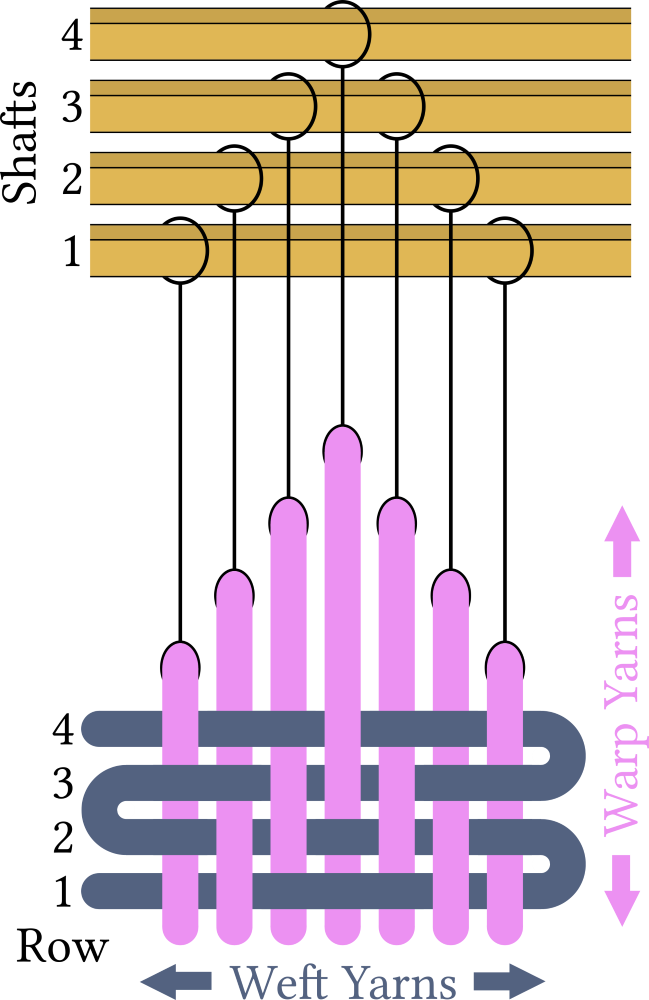
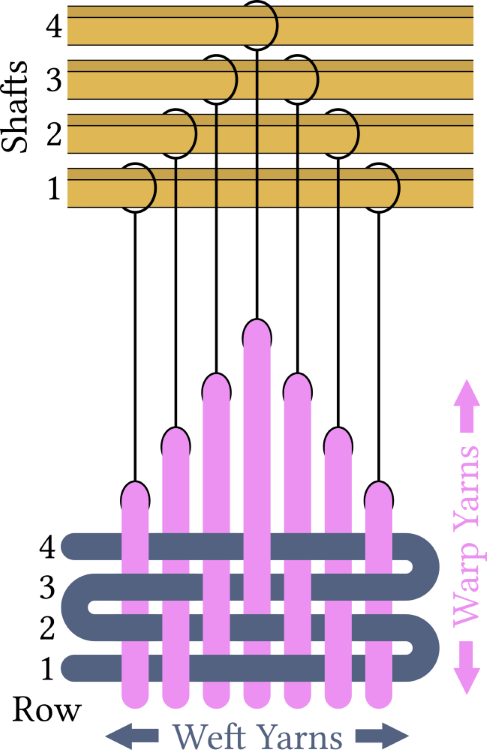
Final Grammer & Text Updates

diff --git a/weaveFrame1.py b/weaveFrame1.py
@@ -12,9 +12,14 @@ from constants_info import *
 from ScrollableFrame import ScrollableFrame
 from serialCom import move_frame, init_frames, config_frames
 
-instr_message = 'Welcome! Change the number of shafts and pedals for your shaft loom setup. \
-Then change the matrices by clicking on the boxes. Once your pattern is complete, \
-weave using the \'Next Row\' and \'Previous Row\' buttons.'
+instr_message   = "Welcome! To start, change the number of shafts and pedals for your shaft loom setup."
+instr_message_2 = "Next, change the threading matrix to the desired configuration, pressing the"
+instr_message_3 = "\'Transmit New Threading\' button when complete. Finally, click around the other matracies"
+instr_message_4 = "until your desired pattern is complete! Weave using the \'Next Row\' and \'Previous Row\' buttons."
+instr_message_5 = "To start exploring the mathematics behind weaving, press the \'Enter Math Mode\' button!"
+instr_message_6 = "If you are struggling with any aspect of the weaving process, please consult the Side Navigation Menu to"
+instr_message_7 = "explore common weaving terminology, a weaving draft legend, or review linear algebra concepts!"
+instr_message_8 = "Additonally, the Side Navigation Menu has simple patterns and culturally significant woven structures to easily follow."
  
 #TODO: Intential in design decisions: verbal, mathametical, and visual 
 class WeaveFrame1(tk.Frame):
@@ -42,7 +47,7 @@ class WeaveFrame1(tk.Frame):
         button_weave      = tk.Button(self, text="Next Row", command=lambda: self.weave_row(True))
         button_weave_back = tk.Button(self, text="Previous Row", command=lambda: self.weave_row(False))
         side_nav_button   = tk.Button(self, text="Toggle Side Menu", command=lambda: toggle_side_nav(self))
-        button_sendConfig = tk.Button(self, text="Transmit Frame Config", command=lambda: config_frames(self.threading))
+        button_sendConfig = tk.Button(self, text="Transmit New Threading", command=lambda: config_frames(self.threading))
         math_mode_button  = tk.Button(self, text="Enter Math Mode", command=lambda: [controller.show_frame("MathMode_WelcomePage")]) 
 
         #Adding Side Navigation Panel
@@ -106,8 +111,23 @@ class WeaveFrame1(tk.Frame):
         self.console_frame.pack_propagate(False)
         self.console_text      = tk.Listbox(self.console_frame, height=console_height,
                                          width=dynamic_x+140, selectmode=tk.SINGLE,  font='Terminal 11')
+        self.console_text.yview(True)
         self.console_text.insert(tk.END, instr_message)
-        self.console_text.itemconfig(self.console_text.size()-1,  bg='light green')
+        self.console_text.insert(tk.END, instr_message_2)
+        self.console_text.insert(tk.END, instr_message_3)
+        self.console_text.insert(tk.END, instr_message_4)
+        self.console_text.insert(tk.END, instr_message_5)
+        self.console_text.insert(tk.END, instr_message_6)
+        self.console_text.insert(tk.END, instr_message_7)
+        self.console_text.insert(tk.END, instr_message_8)
+        self.console_text.itemconfig(self.console_text.size()-8,  bg='light green')
+        self.console_text.itemconfig(self.console_text.size()-7,  bg='light green')
+        self.console_text.itemconfig(self.console_text.size()-6,  bg='light green')
+        self.console_text.itemconfig(self.console_text.size()-5,  bg='light green')
+        self.console_text.itemconfig(self.console_text.size()-4,  bg='light blue')
+        self.console_text.itemconfig(self.console_text.size()-3,  bg='orange')
+        self.console_text.itemconfig(self.console_text.size()-2,  bg='orange')
+        self.console_text.itemconfig(self.console_text.size()-1,  bg='orange')
     
     def make_menuBar(self):
         self.menu_bar = tk.Menu(self, tearoff=0, background="#d2d7d3")
@@ -116,7 +136,7 @@ class WeaveFrame1(tk.Frame):
         self.file_menu.add_command(label="Return to Education Mode", command=lambda: self.controller.show_frame("WeaveFrame1"))
         self.file_menu.add_command(label="Return to Free Weave Mode", command=lambda: self.controller.show_frame("FileFrame"))
         self.file_menu.add_command(label="Return to Calibrate Mode", command=lambda: self.controller.show_frame("CalFrame"))
-        self.file_menu.add_command(label="Reset RoboLoom", command=lambda: self.controller.show_frame("ResetFrame"))
+        self.file_menu.add_command(label="Reset SPEERLoom", command=lambda: self.controller.show_frame("ResetFrame"))
         self.menu_bar.add_cascade(label="File", menu=self.file_menu)
         self.controller.config(menu=self.menu_bar)
 
@@ -245,7 +265,7 @@ class WeaveFrame1(tk.Frame):
         self.wd_scroll_frame.pack()
         
         self.wd1    = tk.Label(self.wd_scroll_frame.scrollable_frame, text="Overview", font='Helvetica 14 bold underline').pack()
-        self.wd1_im = tk.Label(self.wd_scroll_frame.scrollable_frame, image=self.wd_im1, height=778, width=760).pack()
+        self.wd1_im = tk.Label(self.wd_scroll_frame.scrollable_frame, image=self.wd_im1, height=760, width=750).pack()
         self.wd2    = tk.Label(self.wd_scroll_frame.scrollable_frame, text="n= number of columns", font='Helvetica 11').pack()
         self.wd3    = tk.Label(self.wd_scroll_frame.scrollable_frame, text="f= number of frames (shafts)", font='Helvetica 11').pack()
         self.wd4    = tk.Label(self.wd_scroll_frame.scrollable_frame, text="p= number of pedals", font='Helvetica 11').pack()
@@ -264,6 +284,7 @@ class WeaveFrame1(tk.Frame):
     def populate_weaving_term(self):
         #Opening All Images w/ Frames
         self.wt_im1 = ImageTk.PhotoImage(Image.open("weaving\heddles_on_shaft.png"))
+        self.wt_im2 = ImageTk.PhotoImage(Image.open("weaving\speerloom.jpg"))
         
         #Create Scrollable Frame
         self.weave_draft.update_idletasks()
@@ -277,11 +298,6 @@ class WeaveFrame1(tk.Frame):
         self.wt3  = tk.Label(self.wt_scroll_frame.scrollable_frame, text=warp_def, font='Helvetica 11').pack()
         self.wt4  = tk.Label(self.wt_scroll_frame.scrollable_frame, text="Weft Threads", font='Helvetica 12 bold').pack()
         self.wt5  = tk.Label(self.wt_scroll_frame.scrollable_frame, text=weft_def, font='Helvetica 11').pack()
-
-        self.wta  = tk.Label(self.wt_scroll_frame.scrollable_frame, text="Weft-Faced & Warp-Faced Weaving", font='Helvetica 12 bold').pack()
-        self.wtb  = tk.Label(self.wt_scroll_frame.scrollable_frame, text=weft_face_def, font='Helvetica 11').pack()
-        self.wtc  = tk.Label(self.wt_scroll_frame.scrollable_frame, text=warp_face_def, font='Helvetica 11').pack()
-        
         self.wt6  = tk.Label(self.wt_scroll_frame.scrollable_frame, text="Heddles", font='Helvetica 12 bold').pack()
         self.wt7  = tk.Label(self.wt_scroll_frame.scrollable_frame, text=heddle_def, font='Helvetica 11').pack()
         self.wt8  = tk.Label(self.wt_scroll_frame.scrollable_frame, text="Shafts (Frame)", font='Helvetica 12 bold').pack()
@@ -292,8 +308,19 @@ class WeaveFrame1(tk.Frame):
         self.wt13 = tk.Label(self.wt_scroll_frame.scrollable_frame, text=shuttle_def, font='Helvetica 11').pack()
         self.wt14 = tk.Label(self.wt_scroll_frame.scrollable_frame, text="Floats", font='Helvetica 12 bold').pack()
         self.wt15 = tk.Label(self.wt_scroll_frame.scrollable_frame, text=float_def, font='Helvetica 11').pack()
-        self.wt16 = tk.Label(self.wt_scroll_frame.scrollable_frame, text="Diagram", font='Helvetica 12 bold underline').pack()
-        self.wt1_im = tk.Label(self.wt_scroll_frame.scrollable_frame, image=self.wt_im1, height=1000, width=650).pack()
+        
+        self.wta  = tk.Label(self.wt_scroll_frame.scrollable_frame, text="Types of Weaves", font='Helvetica 12 bold underline').pack()
+        self.wtb  = tk.Label(self.wt_scroll_frame.scrollable_frame, text="Weft-Faced Weaving", font='Helvetica 11 bold').pack()
+        self.wtc  = tk.Label(self.wt_scroll_frame.scrollable_frame, text=weft_face_def, font='Helvetica 11').pack()
+        self.wtd  = tk.Label(self.wt_scroll_frame.scrollable_frame, text="Warp-Faced Weaving", font='Helvetica 11 bold').pack()
+        self.wte  = tk.Label(self.wt_scroll_frame.scrollable_frame, text=warp_face_def, font='Helvetica 11').pack()
+        self.wtf  = tk.Label(self.wt_scroll_frame.scrollable_frame, text="Balanced Weave", font='Helvetica 11 bold').pack()
+        self.wtg  = tk.Label(self.wt_scroll_frame.scrollable_frame, text=balance_weave_def, font='Helvetica 11').pack()
+        
+        self.wt16 = tk.Label(self.wt_scroll_frame.scrollable_frame, text="\n\nShaft Loom Diagram", font='Helvetica 12 bold underline').pack()
+        self.wt1_im = tk.Label(self.wt_scroll_frame.scrollable_frame, image=self.wt_im1, height=750, width=490).pack()
+        self.wt17 = tk.Label(self.wt_scroll_frame.scrollable_frame, text="\n\nSPEERLoom Diagram", font='Helvetica 12 bold underline').pack()
+        self.wt2_im = tk.Label(self.wt_scroll_frame.scrollable_frame, image=self.wt_im2, height=350, width=750).pack()
 
     def make_pedal_frame_buttons(self):
         self.button_frames   = tk.Button(self, text="# of Shafts =", command=self.set_frames)
@@ -363,13 +390,13 @@ class WeaveFrame1(tk.Frame):
         #Check Max/Min Frames Check
         input_frames = int(self.text_box_frames.get("1.0", "end-1c"))
         if input_frames < MIN_FRAMES:
-            msg = "ERROR: Be careful, the RoboLoom only supports a minimum of "+ str(MIN_FRAMES) +" frames."
+            msg = "ERROR: Be careful, the SPEERLoom only supports a minimum of "+ str(MIN_FRAMES) +" frames."
             self.console_text.insert(tk.END, msg)
             self.console_text.itemconfig(self.console_text.size()-1,  foreground='red')
             self.console_text.itemconfig(self.console_text.size()-1,  bg='pink')
             return
         elif input_frames > MAX_FRAMES:
-            msg = "ERROR: Be careful, the RoboLoom only supports a maximum of "+ str(MAX_FRAMES) +" frames."
+            msg = "ERROR: Be careful, the SPEERLoom only supports a maximum of "+ str(MAX_FRAMES) +" frames."
             self.console_text.insert(tk.END, msg)
             self.console_text.itemconfig(self.console_text.size()-1,  foreground='red')
             self.console_text.itemconfig(self.console_text.size()-1,  bg='pink')

diff --git a/constants_info.py b/constants_info.py
@@ -1,19 +1,25 @@
 #Terminology Definitions
-warp_def = "These threads run lengthwise (vertically) through the cloth. The loom holds these threads under tension while weaving."
+warp_def = "These threads run lengthwise (vertically) through the cloth. The loom holds these threads under tension\
+\nwhile weaving."
 weft_def = "These threads run side to side (horizontally) in the cloth. The weft thread is inserted or thrown by the weaver."
 
 weft_face_def = "Weft-faced weaving is defined as the weft-yarn being the only visible thread in the final fabric once woven.\
-\nIn  general to achieve weft-faced weaving, choose a warp thread much smoother and smaller than the weft yarn."
+\nIn general to achieve weft-faced weaving, choose a warp thread much smaller with less weight\
+\nthan the weft yarn."
 warp_face_def = "Warp-faced weaving is defined as the warp-yarn being the only visible thread in the final fabric once woven.\
-\nIn  general to achieve warp-faced weaving, choose a weft thread(s) much smoother and smaller than the warp yarn."
+\nIn general to achieve warp-faced weaving, choose a weft thread(s) much smaller with less weight\
+\nthan the warp yarn."
+balance_weave_def="A balanced-weave denotes a type of weaving structure where the warp and weft threads share\
+\nsimilar physical properties such as size, weight, elasticity, and material."
 
-heddle_def  = "Heddles select the threads the loom raises or lowers to make and opening (shed) for the shuttle to pass through.\
-\nIn shaft loom weaving, heddles are connected to the shaft to easily raise pairs of threads for more complex patterns."
-shaft_def   = "Shafts are long rodes connected to warp threads through the heddles to raise or lower threads."
+heddle_def  = "Heddles select the threads the loom raises or lowers to make an opening (shed) for the shuttle (pick) to \
+\npass through. In shaft loom weaving, heddles are connected to the shaft to easily raise groups of threads for\
+\nmore complex patterns. In contrast, a Jacquard loom actuates every heddle individually."
+shaft_def   = "Shafts are long rods connected to warp threads through the heddles to raise or lower threads."
 shed_def    = "The opening created in the warp when threads are raised or lowered by the heddle."
 shuttle_def = "A tool designed to hold and store the weft thread, thrown through the shed while weaving."
 float_def   = "When one thread passes over multiple other threads, we call this jump a float because the given thread \
-\n \"floats\" on top of the others. Floats allow for weaving structures to be more fluid or flexible.\n\n"
+\n \"floats\" on top of the others. Floats allow for weaving structures to be more fluid or flexible.\n"
 
 #Weaving Draft Legend Definitions
 threading_def = "The threading is the horizontal grid at the top of the draft. Each row represents a shaft,\
@@ -63,8 +69,8 @@ linAlg_info = "We will provide a basic overview of the linear algebra concepts n
 
 vector_def= "In the simpliest form, vectors are a pair, or set, of numbers/symbols that represent a value or set of values.\
 \nThese values can be purely abstract or relate to any user defined data such as a set of geometric coordinates\
-\nor linear equations. Vectors are singular in dimension, defined with either one row with multiple columns or one column\
-\n with multiple rows.\
+\nor linear equations. Vectors are singular in dimension, defined with either one row with multiple columns \
+\nor one column with multiple rows.\
 \nTraditionally, vectors are denoted in row column format. This means we classify a vector's size or dimension \
 \nby the number of rows present, r, and the number of columns, c, shown below."
 

diff --git a/startFrame.py b/startFrame.py
@@ -13,7 +13,7 @@ class StartPage(tk.Frame):
         self.controller = controller
         self.geo = str(start_width) + "x" + str(start_height)
 
-        label = tk.Label(self, text="RoboLoom", font=controller.title_font)
+        label = tk.Label(self, text="SPEERLoom", font=controller.title_font)
         label.pack(side="top", fill="x", pady=10)
 
         button1 = tk.Button(self, text="Calibration Mode", command=lambda: controller.show_frame("CalFrame"))
@@ -22,7 +22,7 @@ class StartPage(tk.Frame):
         #button3 = tk.Button(self, text="Weave (Pattern Controlled)",
         #                    command=lambda: controller.show_frame("WeaveFrame2"))
         button4 = tk.Button(self, text="Free Weaving Mode", command=lambda: controller.show_frame("FileFrame"))
-        button5= tk.Button(self, text="Reset RoboLoom", command=lambda: controller.show_frame("ResetFrame"))
+        button5= tk.Button(self, text="Reset SPEERLoom", command=lambda: controller.show_frame("ResetFrame"))
 
         button1.pack()
         button2.pack()

diff --git a/app.py b/app.py
@@ -59,9 +59,11 @@ class App(tk.Tk):
         frame.tkraise()
         self.geometry(frame.geo)
 
-        if page_name == "MathMode_Page1" or page_name == "MathMode_Page2"\
-            or page_name == "MathMode_WelcomePage":
+        if page_name == "MathMode_WelcomePage":
             frame.controller.maxsize(mathMode_width,mathMode_height)
+            frame.controller.resizable(0,0)
+        elif page_name == "MathMode_Page1" or page_name == "MathMode_Page2":
+            frame.controller.maxsize(mathMode_width,mathMode_height_2)
             frame.controller.resizable(0,0)
         elif page_name == "StartPage": 
             frame.controller.maxsize(start_width,start_height)

diff --git a/calFrame.py b/calFrame.py
@@ -19,7 +19,7 @@ class CalFrame(tk.Frame):
         self.controller = controller
         self.geo = str(cal_width) + "x" + str(cal_height)
 
-        label = tk.Label(self, text="RoboLoom Calibration", font=controller.title_font)
+        label = tk.Label(self, text="SPEERLoom Calibration", font=controller.title_font)
         label.pack(side="top", fill="x", pady=10)
 
         instr = tk.Label(self, text="When beginning to weave for the first time, the motors need to start all in the "

diff --git a/resetFrame.py b/resetFrame.py
@@ -16,7 +16,7 @@ class ResetFrame(tk.Frame):
         self.controller = controller
         self.geo = str(reset_width) + "x" + str(reset_height)
 
-        label = tk.Label(self, text="Reset RoboLoom", font=controller.title_font)
+        label = tk.Label(self, text="Reset SPEERLoom", font=controller.title_font)
         label.pack(side="top", fill="x", pady=10)
 
         button1 = tk.Button(self, text="Move all motors down", command=lambda: self.all_down())

diff --git a/constants.py b/constants.py
@@ -4,6 +4,8 @@ buffer         = 2
 
 MAX_FRAMES     = 12
 MIN_FRAMES     = 2
+MAX_PEDALS     = 8
+MIN_PEDALS     = 2
 MAX_HEDDLES    = 40
 NUM_MOTORS     = 40
 NUM_MOTORS_DIS = 8
